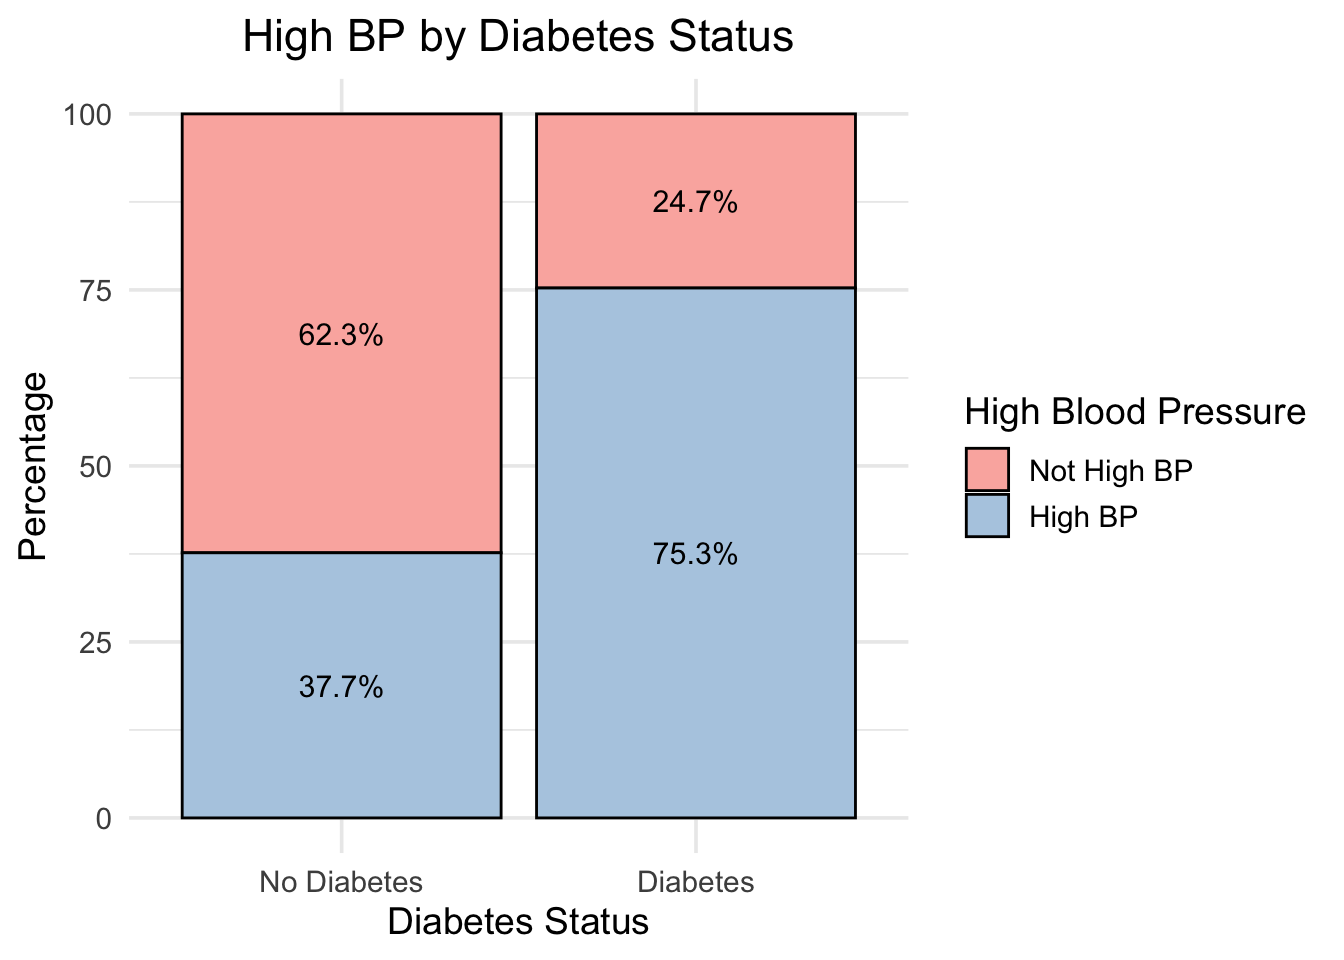
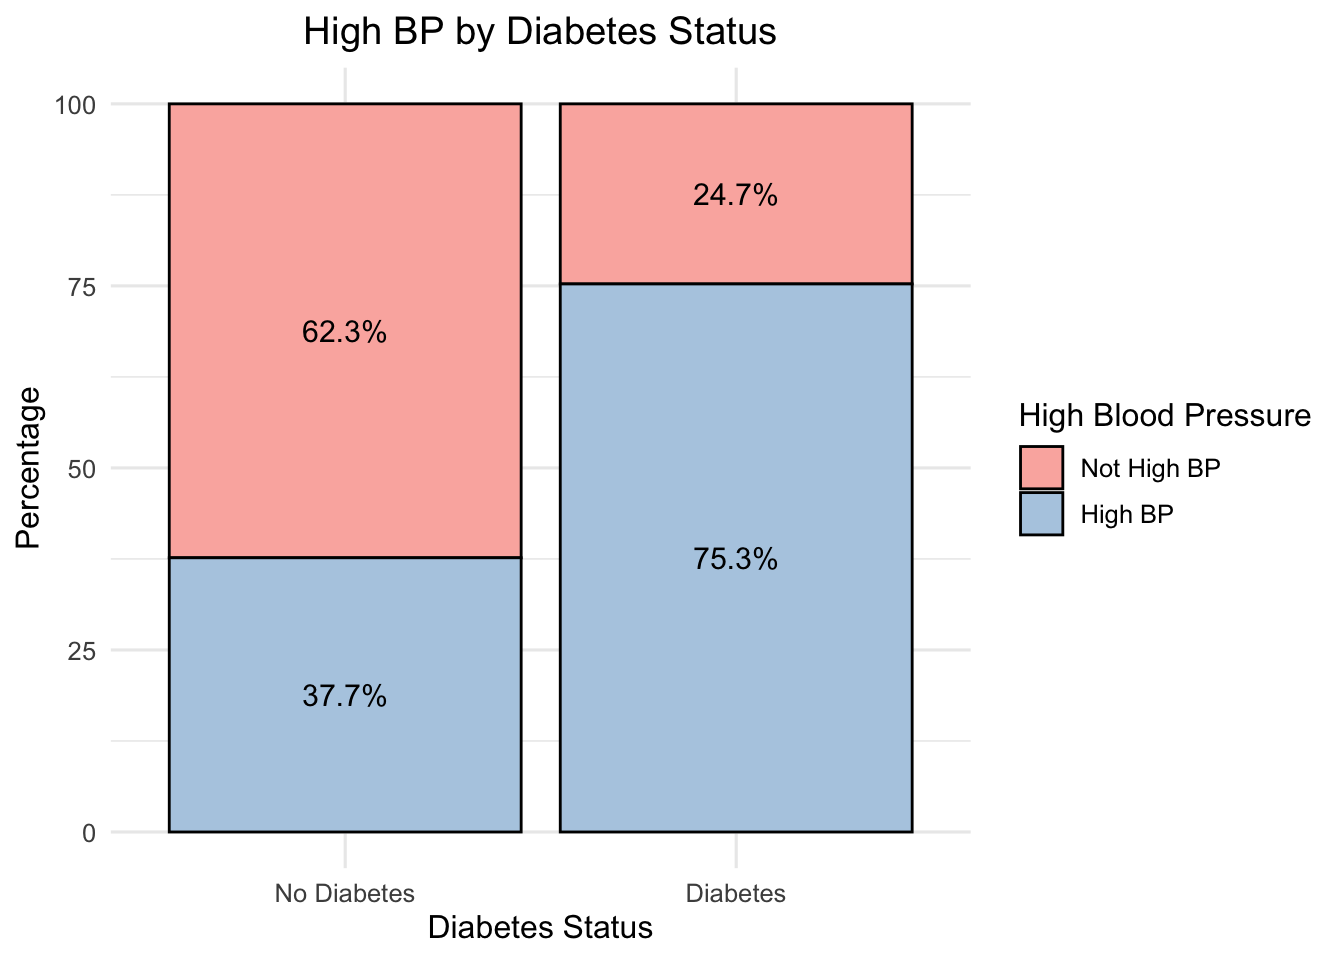
EDA and Modelling final edits

diff --git a/docs/EDA.html b/docs/EDA.html
@@ -135,8 +135,8 @@ pre > code.sourceCode > span > a:first-child::before { text-decoration: underlin
 
 <p>#Introduction section</p>
 <p>For this project, I will be analyzing the impact of specific health indicators on the likelhood of getting diabetes. While there are many indicators in the data set, I have decided to only look into three specific variables: Physical activity, BMI and Blood Pressure. I picked these three variables to specifically narrow down the impacts of cardiometabolic factors on diabetes.</p>
-<p>For the next section of the project, I will do exploratory data analysis to analyze the relationships each of the three variables have on the independent variable, diabetes. This will also help identify any data quality issues and help understand the different data types and distributions.</p>
-<p>Lastly, I will use three models on the different variables to help understand the relationships and make predictions about diabetes probabilities in the future. The three models will be a logistic regression model, classification tree, and a random forest.</p>
+<p>For the next section of the project, I will do exploratory data analysis to analyze the relationships each of the three variables have on the independent variable of having diabetes. This EDA will also help identify any data quality issues and help understand the different data types and distributions.</p>
+<p>In the second part of this project, I will use three different models to help understand the relationships and make predictions about diabetes probabilities in the future. The three models will be a logistic regression model, classification tree, and a random forest.</p>
 <p>#Data: Use a relative path to import data</p>
 <div class="cell">
 <div class="sourceCode cell-code" id="cb1"><pre class="sourceCode r code-with-copy"><code class="sourceCode r"><span id="cb1-1"><a href="#cb1-1" aria-hidden="true" tabindex="-1"></a><span class="co">#Read in data and create a tibble </span></span>
@@ -178,7 +178,7 @@ pre > code.sourceCode > span > a:first-child::before { text-decoration: underlin
 <span id="cb2-2"><a href="#cb2-2" aria-hidden="true" tabindex="-1"></a><span class="fu">summary</span>(diabetes_data)</span>
 <span id="cb2-3"><a href="#cb2-3" aria-hidden="true" tabindex="-1"></a><span class="fu">str</span>(diabetes_data)</span></code><button title="Copy to Clipboard" class="code-copy-button"><i class="bi"></i></button></pre></div>
 </div>
-<p>Above, we can see the frequency of our variables and the variable type for each variable. This will be important later as we create the models.</p>
+<p>Above, we can see the frequency of our variables and the variable type for each variable. This will be important later as we create the models. We will get more into the summary of each variable below.</p>
 <div class="cell">
 <div class="sourceCode cell-code" id="cb3"><pre class="sourceCode r code-with-copy"><code class="sourceCode r"><span id="cb3-1"><a href="#cb3-1" aria-hidden="true" tabindex="-1"></a><span class="co">#Graph for BMI</span></span>
 <span id="cb3-2"><a href="#cb3-2" aria-hidden="true" tabindex="-1"></a><span class="fu">ggplot</span>(<span class="at">data=</span>diabetes_data, <span class="fu">aes</span>(<span class="at">x=</span>BMI))<span class="sc">+</span></span>
@@ -226,7 +226,8 @@ pre > code.sourceCode > span > a:first-child::before { text-decoration: underlin
 </div>
 </div>
 </div>
-<p>From looking at this chart, we can determine that only around 14% of our sample has diabetes. The amount of the sample with high blood pressure is almost 43% and those who excercise is around 76%</p>
+<p>From looking at this chart, we can determine that only around 14% of our sample has diabetes.</p>
+<p>The amount of the sample with high blood pressure is almost 43% and those who excercise is around 76%.</p>
 <p>#Look at relationship between diabetes and each of the #indepedent variables</p>
 <div class="cell">
 <div class="sourceCode cell-code" id="cb6"><pre class="sourceCode r code-with-copy"><code class="sourceCode r"><span id="cb6-1"><a href="#cb6-1" aria-hidden="true" tabindex="-1"></a><span class="co">#Diabetes + BMI</span></span>
@@ -298,7 +299,7 @@ pre > code.sourceCode > span > a:first-child::before { text-decoration: underlin
 <span id="cb11-10"><a href="#cb11-10" aria-hidden="true" tabindex="-1"></a>    <span class="at">y =</span> <span class="st">"Percentage"</span>,</span>
 <span id="cb11-11"><a href="#cb11-11" aria-hidden="true" tabindex="-1"></a>    <span class="at">fill =</span> <span class="st">"High Blood Pressure"</span></span>
 <span id="cb11-12"><a href="#cb11-12" aria-hidden="true" tabindex="-1"></a>  ) <span class="sc">+</span></span>
-<span id="cb11-13"><a href="#cb11-13" aria-hidden="true" tabindex="-1"></a>  <span class="fu">theme_minimal</span>(<span class="at">base_size =</span> <span class="dv">14</span>) <span class="sc">+</span></span>
+<span id="cb11-13"><a href="#cb11-13" aria-hidden="true" tabindex="-1"></a>  <span class="fu">theme_minimal</span>(<span class="at">base_size =</span> <span class="dv">12</span>) <span class="sc">+</span></span>
 <span id="cb11-14"><a href="#cb11-14" aria-hidden="true" tabindex="-1"></a>  <span class="fu">theme</span>(<span class="at">plot.title =</span> <span class="fu">element_text</span>(<span class="at">hjust =</span> <span class="fl">0.5</span>))</span></code><button title="Copy to Clipboard" class="code-copy-button"><i class="bi"></i></button></pre></div>
 <div class="cell-output-display">
 <div>
@@ -341,7 +342,7 @@ pre > code.sourceCode > span > a:first-child::before { text-decoration: underlin
 <span id="cb14-10"><a href="#cb14-10" aria-hidden="true" tabindex="-1"></a>    <span class="at">y =</span> <span class="st">"Percentage"</span>,</span>
 <span id="cb14-11"><a href="#cb14-11" aria-hidden="true" tabindex="-1"></a>    <span class="at">fill =</span> <span class="st">"Physical Activity"</span></span>
 <span id="cb14-12"><a href="#cb14-12" aria-hidden="true" tabindex="-1"></a>  ) <span class="sc">+</span></span>
-<span id="cb14-13"><a href="#cb14-13" aria-hidden="true" tabindex="-1"></a>  <span class="fu">theme_minimal</span>(<span class="at">base_size =</span> <span class="dv">14</span>) <span class="sc">+</span></span>
+<span id="cb14-13"><a href="#cb14-13" aria-hidden="true" tabindex="-1"></a>  <span class="fu">theme_minimal</span>(<span class="at">base_size =</span> <span class="dv">10</span>) <span class="sc">+</span></span>
 <span id="cb14-14"><a href="#cb14-14" aria-hidden="true" tabindex="-1"></a>  <span class="fu">theme</span>(<span class="at">plot.title =</span> <span class="fu">element_text</span>(<span class="at">hjust =</span> <span class="fl">0.5</span>))</span></code><button title="Copy to Clipboard" class="code-copy-button"><i class="bi"></i></button></pre></div>
 <div class="cell-output-display">
 <div>
@@ -351,7 +352,7 @@ pre > code.sourceCode > span > a:first-child::before { text-decoration: underlin
 </div>
 </div>
 </div>
-<p>When looking at the chart of diabetes status by physical activity, we can see that over 50% of those with diabetes do physical activity, but those who do not have diabetes are more likely to do physical activity.</p>
+<p>When looking at the chart of diabetes status by physical activity, we can see that while over 50% of those with diabetes do physical activity, those who do not have diabetes do more physical activity.</p>
 <div class="cell">
 <div class="sourceCode cell-code" id="cb15"><pre class="sourceCode r code-with-copy"><code class="sourceCode r"><span id="cb15-1"><a href="#cb15-1" aria-hidden="true" tabindex="-1"></a><span class="co">#Looking interactions between the BMI and High blood pressure</span></span>
 <span id="cb15-2"><a href="#cb15-2" aria-hidden="true" tabindex="-1"></a>BMIMeans <span class="ot">&lt;-</span> diabetes_data <span class="sc">|&gt;</span></span>
@@ -393,7 +394,7 @@ pre > code.sourceCode > span > a:first-child::before { text-decoration: underlin
 </div>
 </div>
 </div>
-<p>From the table of means and the boxplot we can determine that those with diabetes have a slightly greater BMI despite there blood pressure status. Those who have high BP typically have a higher BMI despite diabetes status.</p>
+<p>From the table of means and the boxplot we can determine that those with diabetes have a slightly greater BMI despite there blood pressure status.</p>
 <div class="cell">
 <div class="sourceCode cell-code" id="cb18"><pre class="sourceCode r code-with-copy"><code class="sourceCode r"><span id="cb18-1"><a href="#cb18-1" aria-hidden="true" tabindex="-1"></a><span class="co">#Looking interactions between the BMI and Physical Activity</span></span>
 <span id="cb18-2"><a href="#cb18-2" aria-hidden="true" tabindex="-1"></a>PhysicalAct_Means <span class="ot">&lt;-</span> diabetes_data <span class="sc">|&gt;</span></span>
@@ -436,7 +437,7 @@ pre > code.sourceCode > span > a:first-child::before { text-decoration: underlin
 </div>
 </div>
 <p>#Takeaways from EDA</p>
-<p>From our explorationtory data analysis, we can determine that all three variables has some effect on diabetes, althought it does not seem that all are created equal, as high blood seems to have the strongest relationship with diabetes.</p>
+<p>From our EDA, we can determine that all three variables have at least some effect on diabetes, although it does not seem that all variables were created equal, as high blood seems to have the strongest relationship with diabetes.</p>
 <p><a href="Modeling.html">Click here for the Modeling Page</a></p>
 
 

diff --git a/docs/Modeling.html b/docs/Modeling.html
@@ -214,9 +214,10 @@ pre > code.sourceCode > span > a:first-child::before { text-decoration: underlin
 <pre><code>[1] 0.1390447</code></pre>
 </div>
 </div>
+<p>From the infomation above, we will choose Model3 as our best model given the lowest log loss.</p>
 <p>#Classification Tree</p>
-<p>A classification tree can be used to predict the outcome of a categorical or binary variable by assigning variables to different classes. This is done by using a fitting process and partitioning by the specific variables into seperate sections. This can be easier to interpret and better for non-linear data than a logistic regression model would be.</p>
-<p>For example, in this model we will take BMI, high blood pressure and physical activity and using the fitting process, determine specific branches to find groups that are more likely to have diabetes.</p>
+<p>A classification tree can be used to predict the outcome of a categorical or binary variable by assigning variables to different classes. This is done by using a fitting process and partitioning by the specific variables into separate sections. This can be easier to interpret and better for non-linear data than a logistic regression model would be.</p>
+<p>In this model we will take BMI, high blood pressure and physical activity and using the fitting process, determine specific branches to find groups that are more likely to have diabetes.</p>
 <div class="cell">
 <div class="sourceCode cell-code" id="cb6"><pre class="sourceCode r code-with-copy"><code class="sourceCode r"><span id="cb6-1"><a href="#cb6-1" aria-hidden="true" tabindex="-1"></a><span class="co">#Create Recipe </span></span>
 <span id="cb6-2"><a href="#cb6-2" aria-hidden="true" tabindex="-1"></a>tree_rec <span class="ot">&lt;-</span> <span class="fu">recipe</span>(Diabetes_binary <span class="sc">~</span> BMI <span class="sc">+</span> HighBP <span class="sc">+</span> PhysActivity, <span class="at">data=</span>train) <span class="sc">|&gt;</span></span>
@@ -513,6 +514,7 @@ predictor: 3</code></pre>
 </div>
 <div class="sourceCode cell-code" id="cb59"><pre class="sourceCode r code-with-copy"><code class="sourceCode r"><span id="cb59-1"><a href="#cb59-1" aria-hidden="true" tabindex="-1"></a>final_model <span class="ot">&lt;-</span> rf_final_fit<span class="sc">$</span>.workflow[[<span class="dv">1</span>]]</span></code><button title="Copy to Clipboard" class="code-copy-button"><i class="bi"></i></button></pre></div>
 </div>
+<p>Above, we have the best model of the logistic regression model, classification tree, and random forest. Using log loss, we have determined the best model of all 3 model choices and made a dataframe to compare them against each other.</p>
 <p>By looking at the log loss metrics, we can see that random forest has the lowest value for log-loss and is the best model overall of the three that were fit.</p>
 
 
